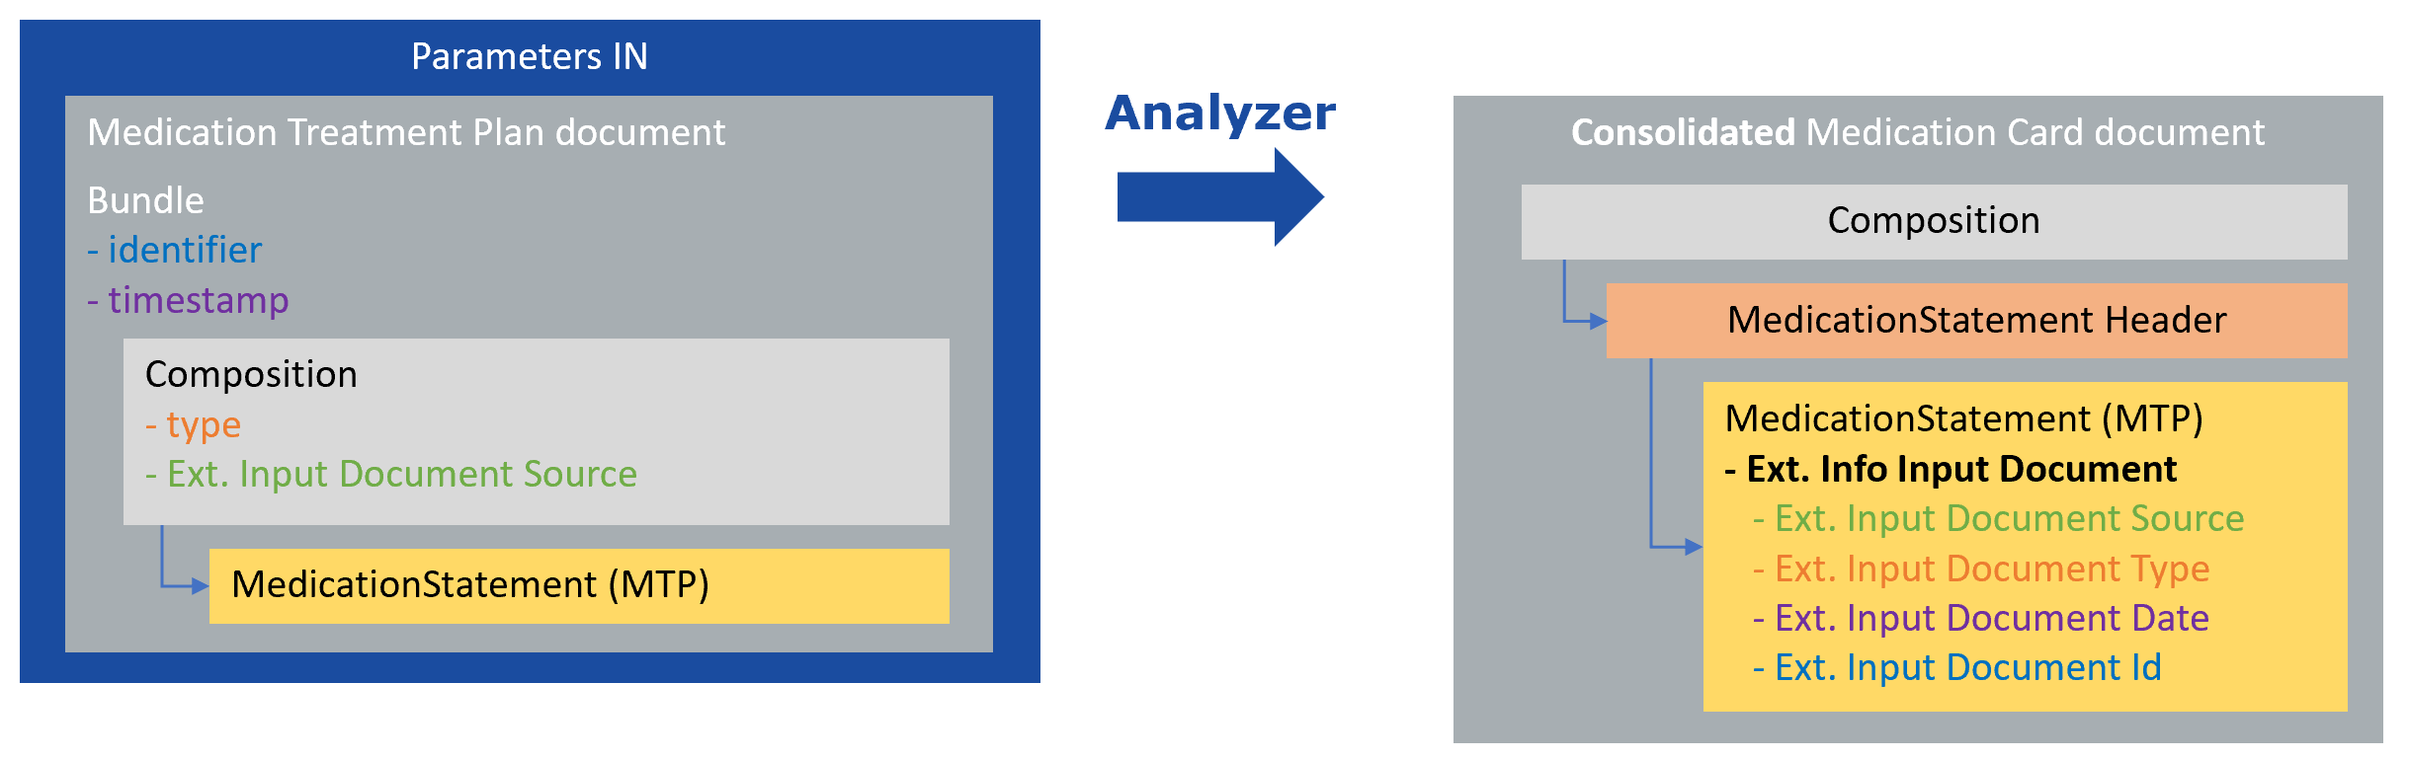
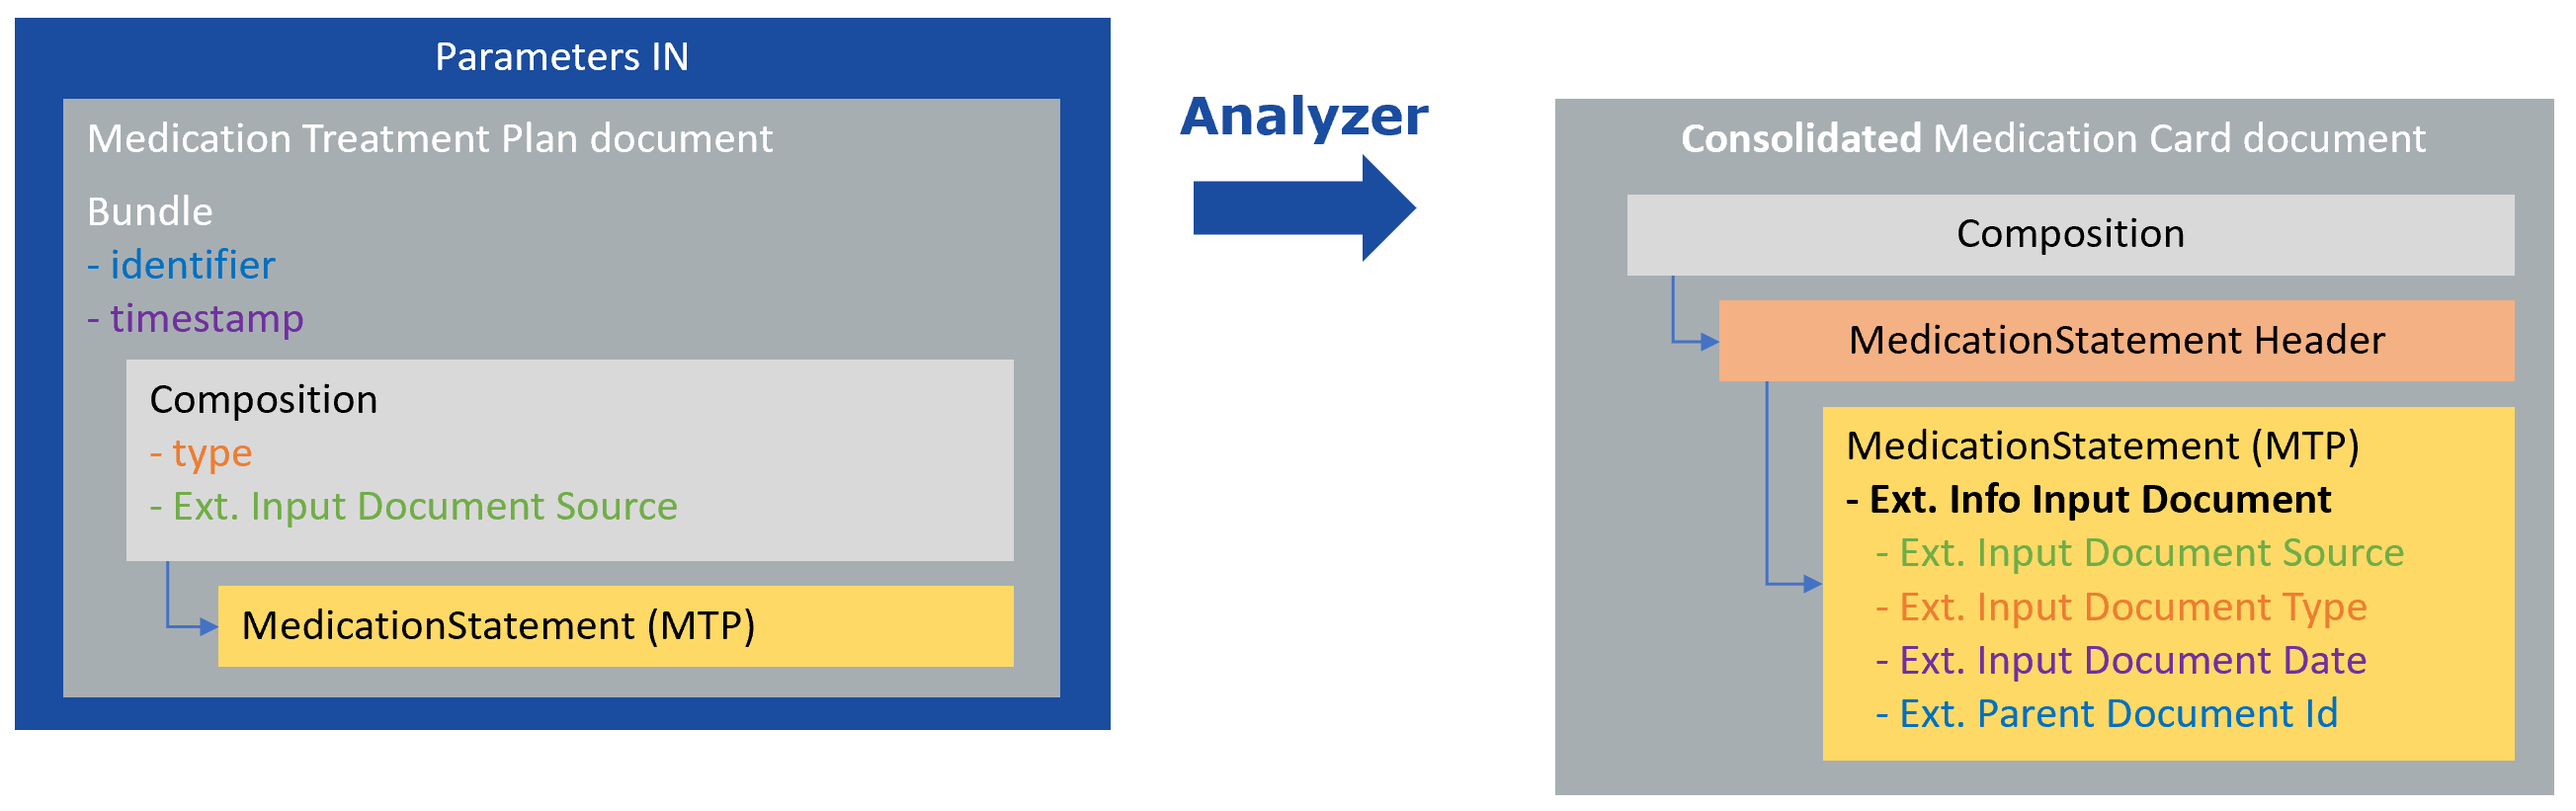
rename inputdocumentid to parentdocumentid

diff --git a/input/pagecontent/development.md b/input/pagecontent/development.md
@@ -14,7 +14,7 @@
   - [Info Input Document](#info-input-document)
     - [Input Document Source](#input-document-source-1)
     - [Input Document Type](#input-document-type)
-    - [Input Document Id](#input-document-id)
+    - [Parent Document Id](#parent-document-id)
   - [History Changes](#history-changes)
 - [FHIR Implementation Guide](#fhir-implementation-guide)
   - [Naming](#naming)
@@ -113,7 +113,7 @@ The extension [Info Input Document](StructureDefinition-infoinputdocument.html) 
 * [Input Document Source](StructureDefinition-inputdocumentsource.html) (Input document)
 * [Input Document Type](StructureDefinition-inputdocumenttype.html) (Input document / Output document)
 * [Input Document Date](StructureDefinition-inputdocumentdate.html) (Input document / Output document)
-* [Input Document Id](StructureDefinition-inputdocumentid.html) (Input document / Output document)
+* [Parent Document Id](StructureDefinition-parentdocumentid.html) (Input document / Output document)
 
 The extension **Info Input Document** is set on each 'derivedFrom'-entry ([MedicationStatement](StructureDefinition-analyzer-medicationstatement.html), [MedicationRequest](StructureDefinition-analyzer-medicationrequest.html), [MedicationDispense](StructureDefinition-analyzer-medicationdispense.html), [Observation](StructureDefinition-analyzer-observationpadv.html)), but not on the [Header MedicationStatement](StructureDefinition-analyzer-medicationstatement-header.html).
 
@@ -142,7 +142,7 @@ This information is used to distinguish the following document types:
   * PRE: LOINC 57833-6
   * DIS: LOINC 60593-1
   * PADV: LOINC 61356-2
-* LIST/CARD: These documents types have the same code (`Composition.type`) and must therefore be differentiated via the title (`Composition.title`) (used afterwards to set the Input Document Id):
+* LIST/CARD: These documents types have the same code (`Composition.type`) and must therefore be differentiated via the title (`Composition.title`) (used afterwards to set the Parent Document Id):
    * LIST/CARD: LOINC 56445-0
      * LIST: 'Medikationsliste' in german or 'Liste de médication' in french or 'Elenco delle terapie farmacologiche' in italian or Medication List' in english
      ```json
@@ -178,7 +178,7 @@ This information is used to distinguish the following document types:
       ```
      * If none of these titles is specified, the additional information (.text) is omitted.
 
-##### Input Document Id
+##### Parent Document Id
 This information is needed, for example, when a medication is 'imported' via a LIST (input document), on which a PADV is to be created later (needs the reference externalDocumentId).   
 
 The identifier is taken from the input document as follows:

diff --git a/input/pagecontent/changelog.md b/input/pagecontent/changelog.md
@@ -17,7 +17,7 @@ See also open issues on [GitHub](https://github.com/ahdis/hci-analyzer/issues).
       * ALL: New structure of dosage element(s)
       * ALL: Change status of Header MedicationStatement to `unknown` (incl. profile)
       * ALL: Adapt the display values
-
+* Rename 'Extension Input Document Type': http://hcisolutions.ch/ig/analyzer/StructureDefinition/parentdocumentid
 
 
 ### v0.4.0 (from July 2022 until Dec 2022)
@@ -26,7 +26,7 @@ See also open issues on [GitHub](https://github.com/ahdis/hci-analyzer/issues).
 * Add slices for different entries in the Bundle to simplify the validation.
 * Add [ValueSet Document Type](ValueSet-document-type.html) incl. binding to [Extension Input Document Type](StructureDefinition-inputdocumenttype.html) to improve the validation.
 * Add ATC code (element category) to MedicationDispense and MedicationRequest (analog to MedicationStatement and MedicationStatement Header).
-* Include the new extension [Input Document Id](StructureDefinition-inputdocumentid.html) into the existing extension [Info Input Document](StructureDefinition-infoinputdocument.html) to represent the identifier (externalDocumentId) of the input document.
+* Include the new extension 'Input Document Id' into the existing extension [Info Input Document](StructureDefinition-infoinputdocument.html) to represent the identifier (externalDocumentId) of the input document.
 * Integrate [development notes](development.html).
 
 #### Changed / Updated
